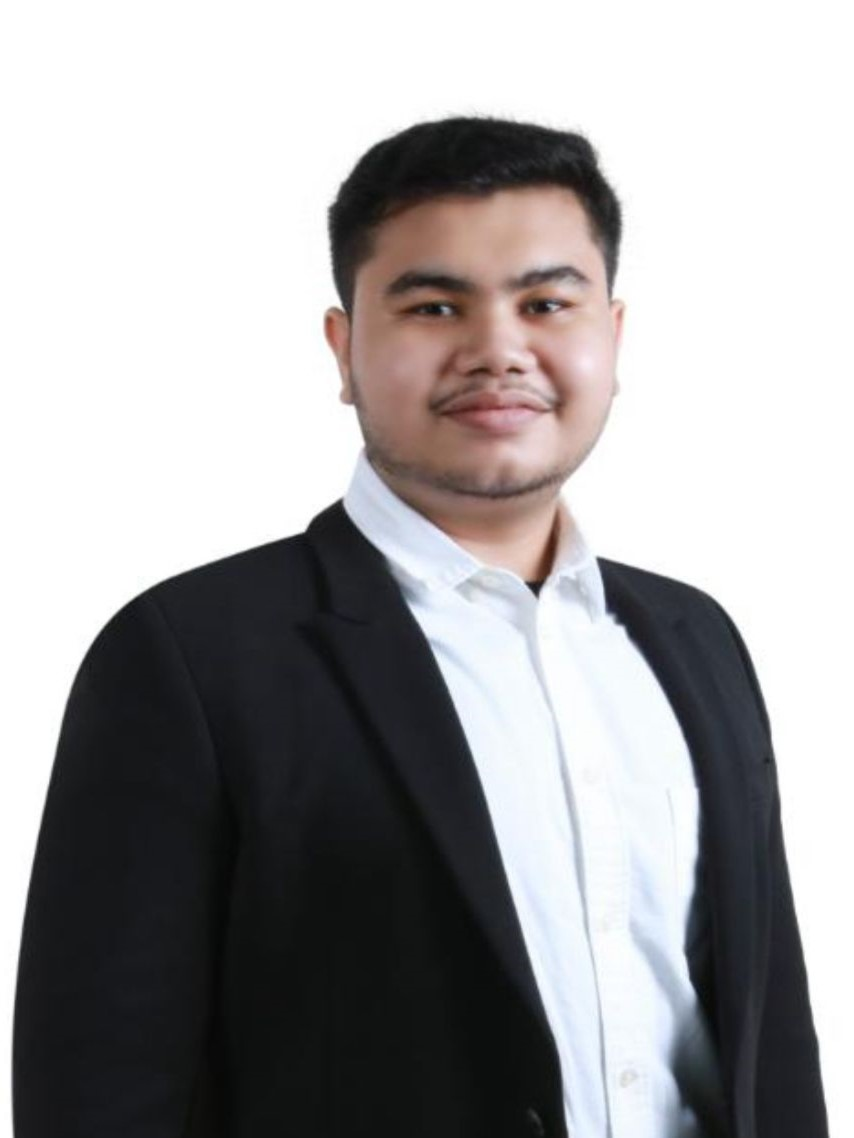
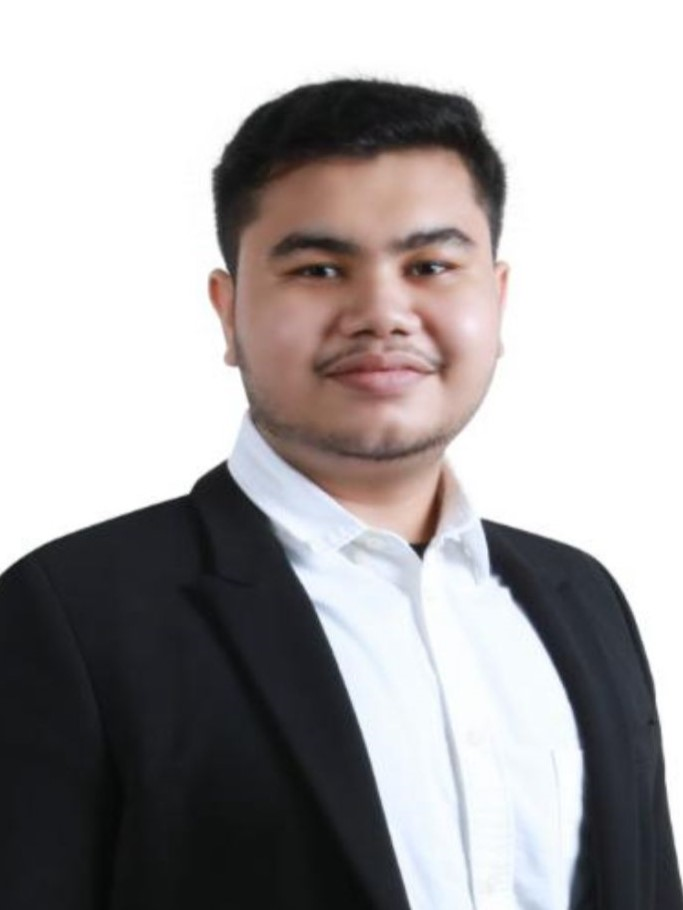
fix : image size

diff --git a/components/landing-page/Pengurus/Pengurus.jsx b/components/landing-page/Pengurus/Pengurus.jsx
@@ -1,14 +1,16 @@
-import assets from '@/assets/assets'
+// ** Import Next
 import Image from 'next/image'
+
+// ** Import Constant
 import { administrators } from '@/constanst/pengurus'
 
 const Pengurus = () => {
   
   return (
     <div className='px-16 py-32'>
-      <div className='grid grid-cols-1 md:grid-cols-2 lg:grid-cols-3 gap-y-10 gap-x-8 md:gap-y-18 md:gap-x-16 px-24'>
+      <div className='grid grid-cols-1 md:grid-cols-2 lg:grid-cols-3 gap-y-10 gap-x-8 md:gap-y-18 md:gap-x-16 px-2 lg:px-24'>
         {administrators.map((data, index) => (
-          <div key={index} className={`rounded-xl shadow-lg border-2 overflow-hidden w-full mx-auto`}>
+          <div key={index} className={`rounded-xl shadow-lg border-2 overflow-hidden w-full mx-auto ${index === 3 && 'md:col-start-2 md:col-end-3'}`}>
             <Image src={data.image} alt='Image profile' className='mx-auto aspect-[3/4] w-full'/>
             <div className='text-center py-6 space-y-2'>
               <h6 className='text-lg md:text-xl font-semibold'>{data.name}</h6>
